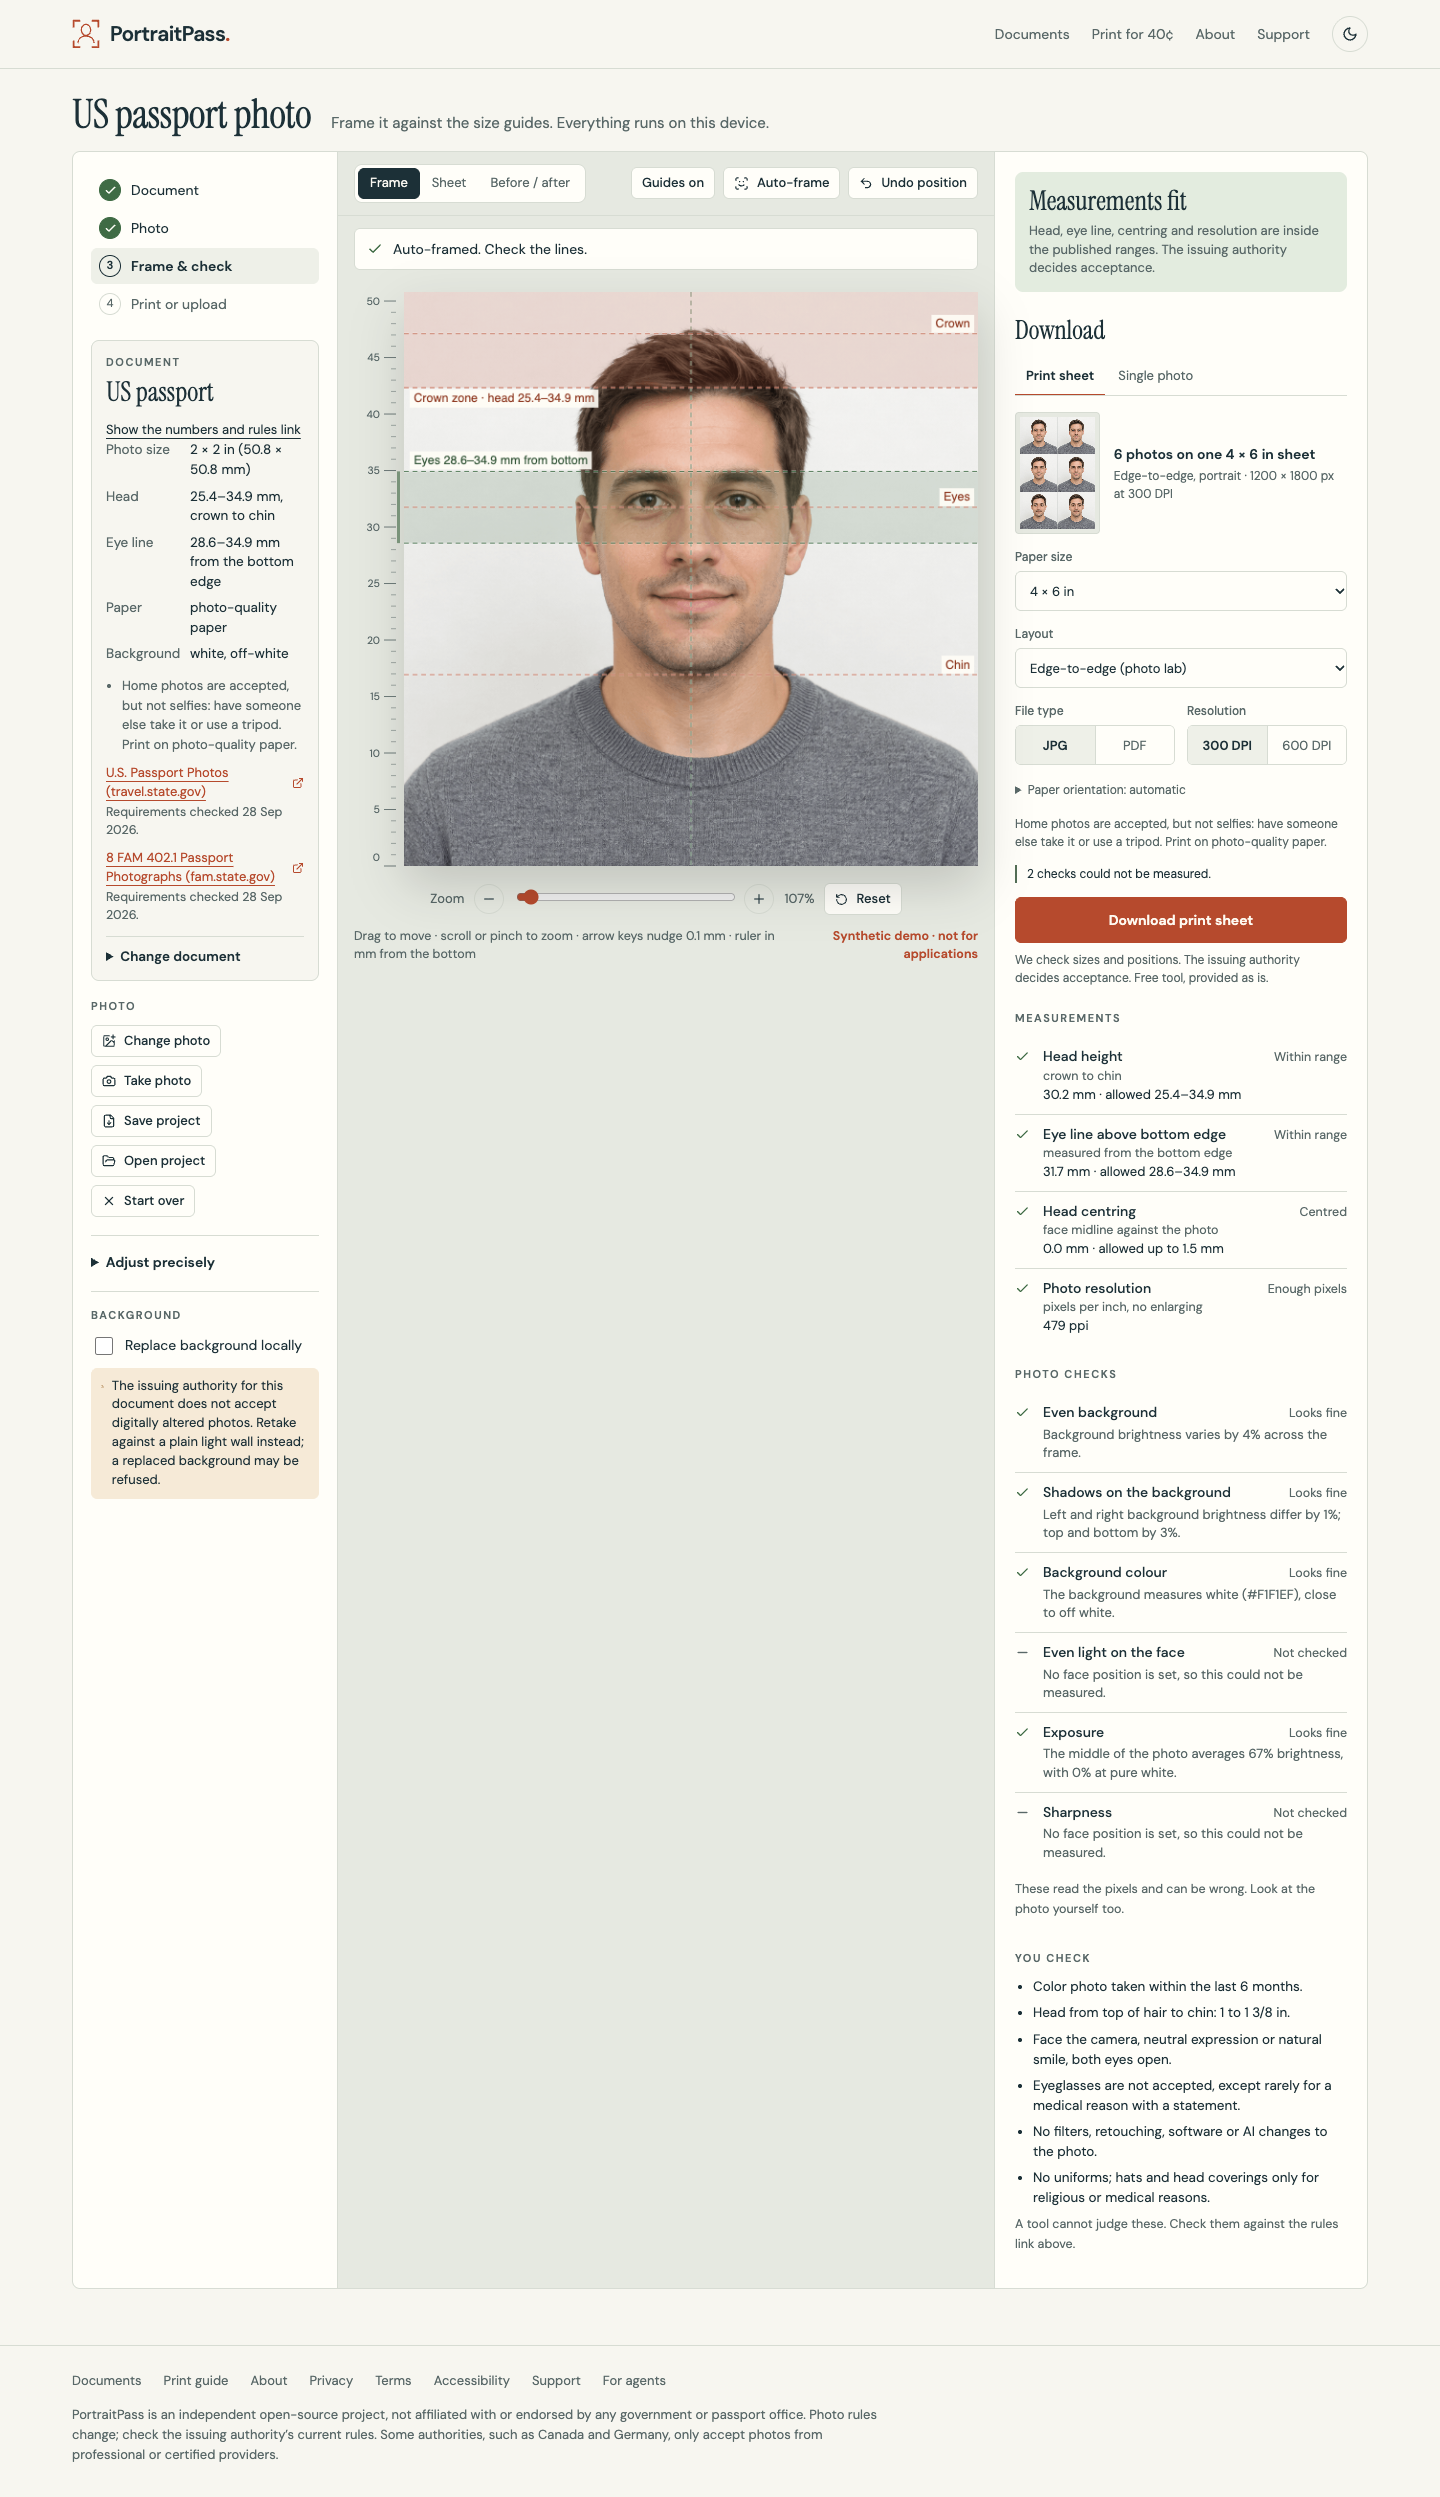
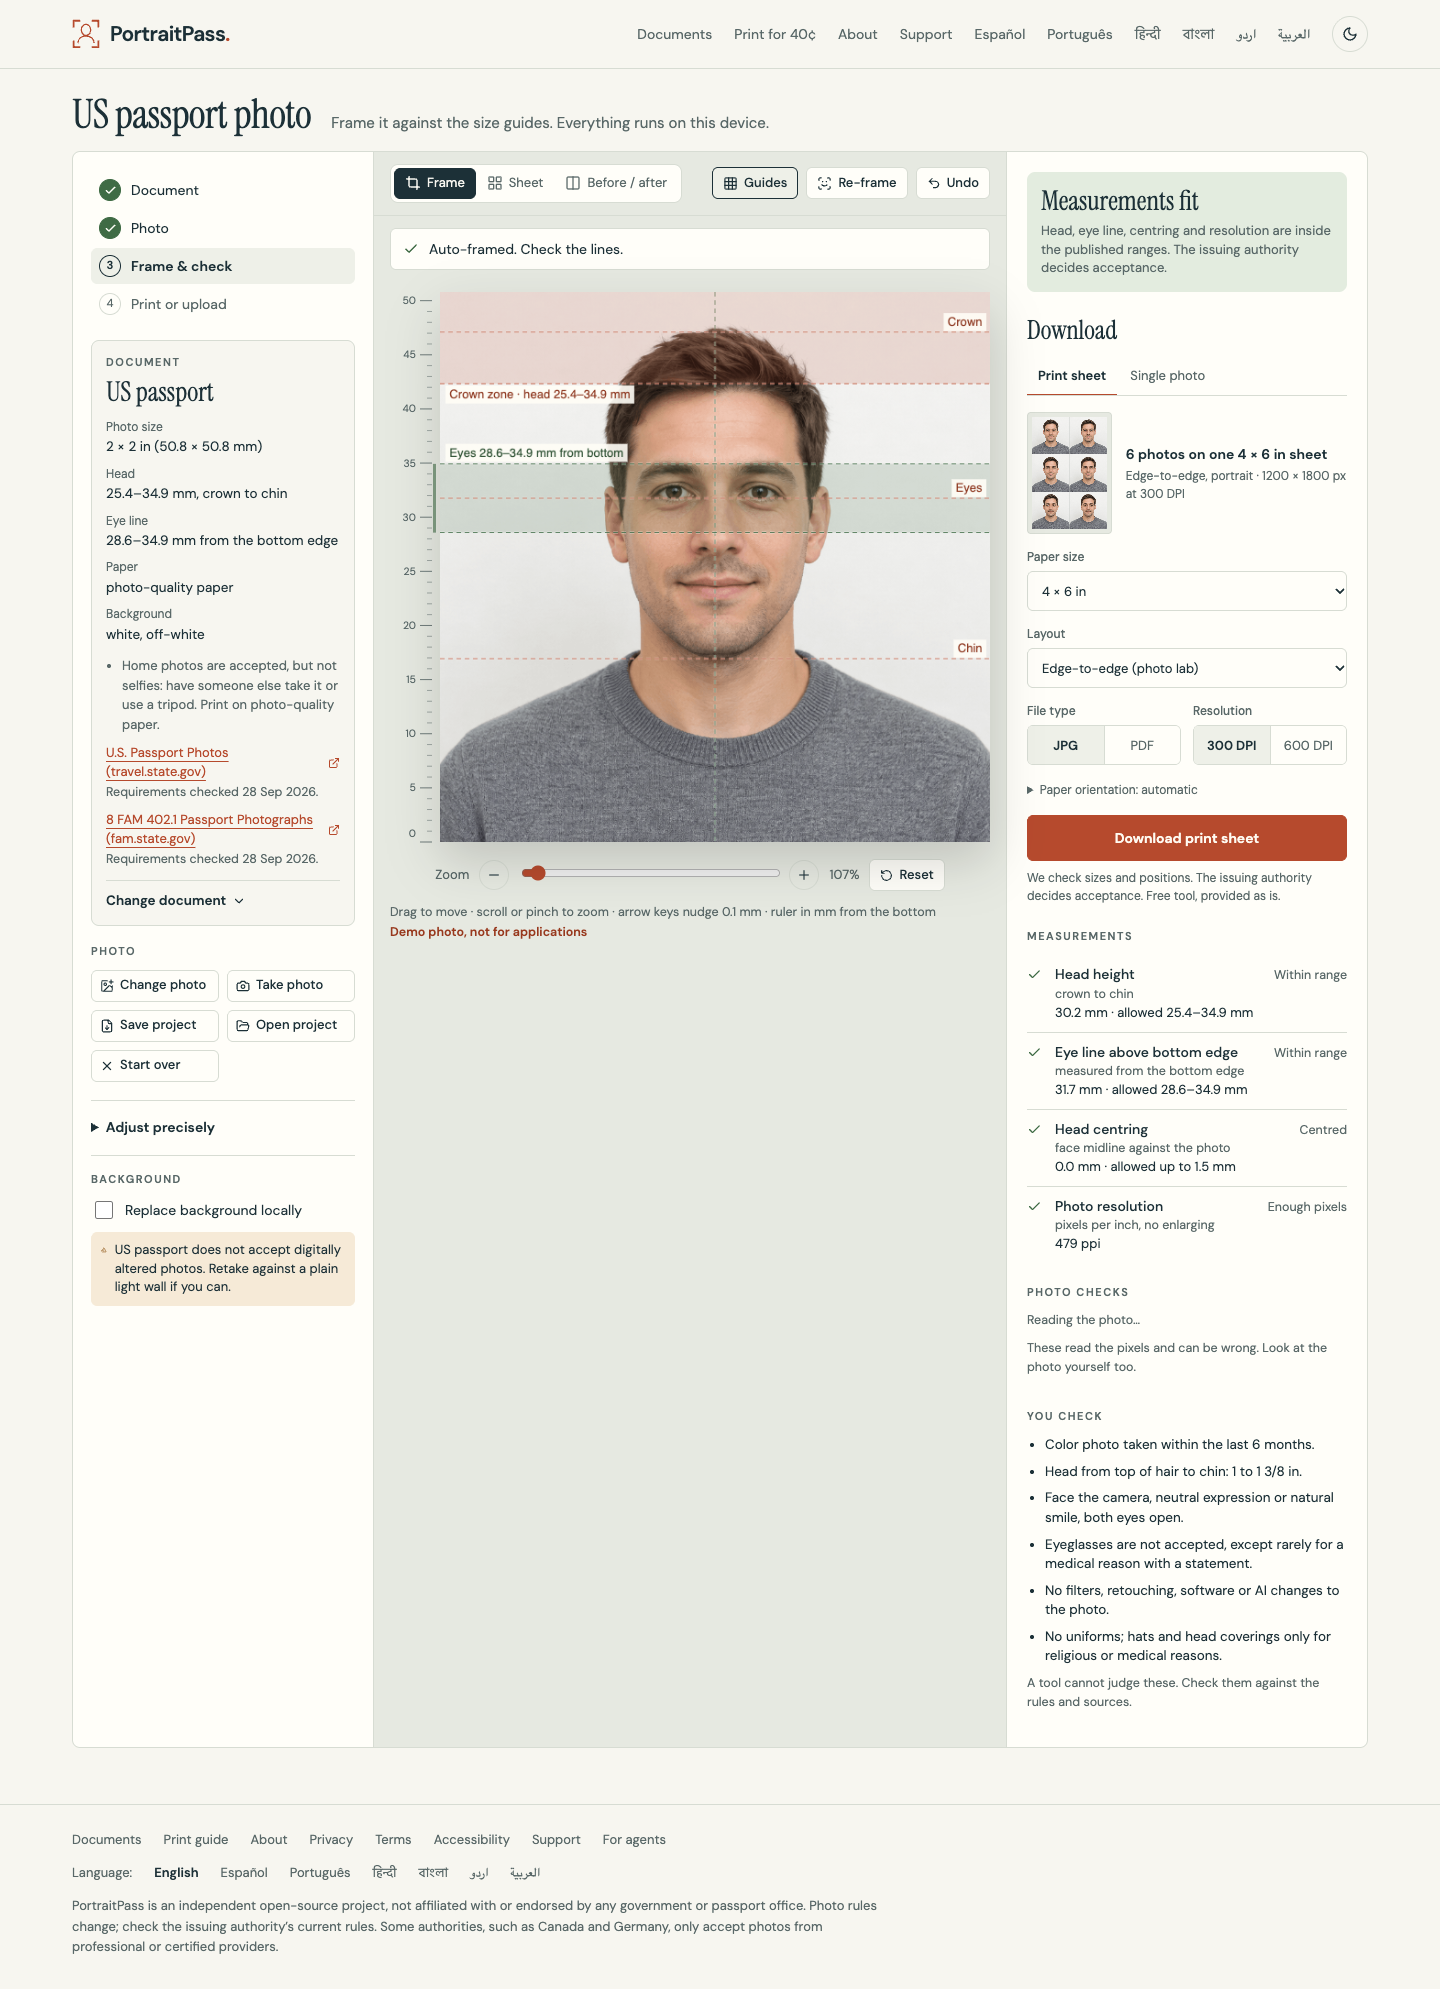
Refresh README hero loops and screenshots from the rebuilt studio
Light and dark animated WebP heroes of the full flow (document, sample,
auto-framing with measurements, six on a 4x6, download), refreshed
screenshots plus the document index, a document page and the camera
modal. Credits cover the launch film footage, fake-camera source and
procedural score.

diff --git a/tests/e2e/screenshots.spec.ts b/tests/e2e/screenshots.spec.ts
@@ -1,11 +1,26 @@
 import { test, expect } from '@playwright/test';
 import { mkdir } from 'node:fs/promises';
 import { fileURLToPath } from 'node:url';
+import sharp from 'sharp';
 
 const NOTICE_KEY = 'portraitpass:face-notice';
+const CAMERA_FILE = process.env.PP_FAKE_CAMERA_Y4M;
 
-test('capture real product light/dark and mobile review screens', async ({ page }) => {
-  test.setTimeout(120_000);
+// Chrome's fake camera. With PP_FAKE_CAMERA_Y4M (a .y4m made from the synthetic demo portrait) the modal shows
+// that portrait; without it Chrome serves its built-in test pattern.
+test.use({
+  launchOptions: {
+    args: [
+      '--use-fake-ui-for-media-stream',
+      '--use-fake-device-for-media-stream',
+      ...(CAMERA_FILE ? [`--use-file-for-fake-video-capture=${CAMERA_FILE}`] : []),
+    ],
+  },
+  permissions: ['camera'],
+});
+
+test('capture real product light/dark, mobile, documents and camera screens', async ({ page }) => {
+  test.setTimeout(180_000);
   const folder = fileURLToPath(new URL('../../docs/screenshots/', import.meta.url));
   await mkdir(folder, { recursive: true });
   await page.addInitScript(key => localStorage.setItem(key, '1'), NOTICE_KEY);
@@ -20,12 +35,39 @@ test('capture real product light/dark and mobile review screens', async ({ page 
   await theme('dark');
   await page.screenshot({ path: `${folder}/home-dark.png`, fullPage: true });
   await theme('light');
+
+  // Camera modal (fake stream), opened from the home page.
+  await page.getByRole('button', { name: 'Take photo' }).first().click();
+  const dialog = page.getByRole('dialog', { name: 'Take a photo' });
+  await expect(dialog).toBeVisible();
+  const turnOn = dialog.getByRole('button', { name: 'Turn on camera' });
+  if (await turnOn.isVisible()) await turnOn.click();
+  await expect(dialog.getByTestId('camera-video')).toBeVisible();
+  await page.waitForFunction(() => {
+    const v = document.querySelector('video');
+    return !!v && v.readyState >= 2 && v.videoWidth > 0 && !v.paused;
+  });
+  await page.waitForTimeout(1500);
+  await page.screenshot({ path: `${folder}/camera-modal.png` });
+  await page.keyboard.press('Escape');
+  await expect(dialog).toHaveCount(0);
+
+  // Documents index and one document page.
+  await page.goto('/documents/');
+  await expect(page.getByRole('heading', { level: 1 })).toBeVisible();
+  await page.screenshot({ path: `${folder}/documents-index.png`, fullPage: true });
+  await page.goto('/dv-lottery-photo/');
+  await expect(page.getByRole('heading', { level: 1 })).toBeVisible();
+  await page.screenshot({ path: `${folder}/document-page.png`, fullPage: true });
+
+  // Studio: auto-framed with guides and live checks.
   await page.goto('/studio/?doc=us-passport');
   await expect(page.getByRole('heading', { name: 'Add your photo' })).toBeVisible();
   await page.getByRole('button', { name: 'Try a sample', exact: true }).click();
   await expect(page.getByText('Auto-framed. Check the lines.')).toBeVisible({ timeout: 60_000 });
   await expect(page.getByText('Measurements fit', { exact: true })).toBeVisible();
   await page.screenshot({ path: `${folder}/studio-light.png`, fullPage: true });
+  await sharp(`${folder}/studio-light.png`).resize({ width: 1200 }).webp({ quality: 82 }).toFile(`${folder}/studio-light.webp`);
   await theme('dark');
   await page.screenshot({ path: `${folder}/studio-dark.png`, fullPage: true });
   await theme('light');

diff --git a/CREDITS.md b/CREDITS.md
@@ -27,4 +27,4 @@ DM Sans and Instrument Serif: SIL Open Font License 1.1; bundled through Fontsou
 The favicon, PWA icons (`public/icons/`, made by `scripts/make-icons.ts`) and the social card (`public/og.svg` and `public/og.png`, made by `scripts/make-og.ts`) are original PortraitPass artwork, MIT. The card's text is drawn as outlines of DM Sans and Instrument Serif (SIL OFL 1.1). Its 4×6 sheet mock uses simple shapes, no photographs and no real or generated faces.
 
 ## Product and launch visuals
-Screenshots and animated WebP demonstrations show this original app using the synthetic portrait above. The original vector social card also has a 1200×630 PNG rendition. The local launch film uses an original procedural instrumental score, without samples or a generative music model. Editable film sources, audio provenance and asset hashes are retained in the ignored `docs/launch/media/` folder. Its launch-only GSAP runtime uses the GSAP Standard License and is not included in the application dependency tree or bundle.
+Screenshots, the camera-modal capture and the animated WebP hero loops are recorded from this original app (a production build served locally) using the synthetic demo portrait above; the synthetic cursor drawn in the loops is a plain SVG arrow made for this project. The camera-modal screenshot uses Chrome's fake media device fed with a video made from `public/demo-portrait.png` (no real person, no webcam). The launch film (32 s, 1920×1080, H.264 with AAC audio), its 1200×630 social still and the film plates are built from the same real footage plus original motion design (HTML/CSS, Instrument Serif and DM Sans under the SIL OFL 1.1, the original PortraitPass mark). The film's score is an original procedural instrumental made by a short Python script from sine waves, without samples, recordings or a generative music model. Editable film sources, the audio script and the capture scripts are retained in the ignored `docs/launch/media/` folder, and only the README WebP and PNG screenshots are committed. The film's launch-only GSAP runtime uses the GSAP Standard License and is not included in the application dependency tree or bundle.
